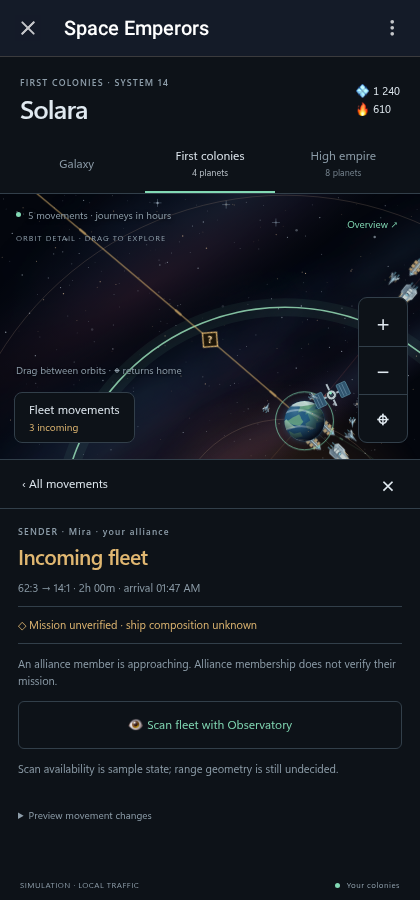
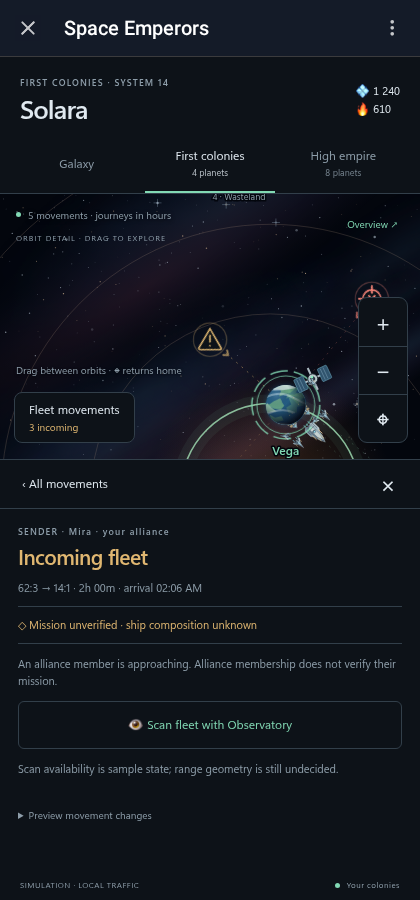
Show incoming fleets as compact tactical alerts

diff --git a/examples/galaxy/app/app.js b/examples/galaxy/app/app.js
@@ -603,30 +603,22 @@ function addFleet(from, to, index, cargo, duration, incoming) {
 		);
 	const state = movementState.get(key);
 	const route = element("g", { class: "fleet-route", "data-route": id }, $("#routes"));
+	// Geometry is private to this movement. Only its remaining journey is drawn on the map.
 	const path = element(
 		"path",
 		{
 			d: `M${from.x},${from.y} Q${(from.x + to.x) / 2 + (index % 2 ? 35 : -35)},${(from.y + to.y) / 2 - 38} ${to.x},${to.y}`,
-			class: "trajectory",
+			"data-scene-def": "",
 		},
-		route,
+		svg.querySelector("defs"),
 	);
-	const flow = element(
-		"path",
-		{
-			d: path.getAttribute("d"),
-			class: "route-flow",
-			pathLength: 100,
-			style: `animation-delay: -${index % 8}s`,
-		},
-		route,
-	);
+	const trajectory = element("path", { class: "trajectory" }, route);
 	const ship = element(
 		"g",
 		{ "data-fleet": id, role: "button", tabindex: 0, class: "fleet-marker" },
 		$("#ships"),
 	);
-	const fleet = { path, flow, route, ship, state, from, to, length: path.getTotalLength() };
+	const fleet = { path, trajectory, route, ship, state, from, to, length: path.getTotalLength() };
 	fleets.push(fleet);
 	paintFleet(fleet);
 	bindSelect(ship, () => openMovement(fleet));
@@ -709,8 +701,8 @@ function paintFleet(fleet) {
 	ship.dataset.leg = state.legId;
 	ship.dataset.duration = state.arrival - state.departure;
 	const composition = state.own ? state.composition : intelligence(state)?.composition;
-	const formation = element("g", { class: "formation" }, ship);
-	if (composition) {
+	if (state.own) {
+		const formation = element("g", { class: "formation" }, ship);
 		for (const [type, count] of Object.entries(composition)) {
 			if (!count) continue;
 			const shape = shipTypes[type];
@@ -741,8 +733,25 @@ function paintFleet(fleet) {
 				);
 		}
 	} else {
-		element("path", { d: "M0,-12 12,0 0,12 -12,0Z", class: "unknown-contact" }, formation);
-		element("text", { x: 0, y: 4, "text-anchor": "middle", class: "contact-question" }, formation, "?");
+		// Incoming contacts stay compact. Ship types and counts belong in the scanned detail view.
+		const tone = fleetTone(state);
+		const contact = element("g", { class: `contact-marker ${tone}`, "data-contact": tone }, ship);
+		element("circle", { r: 14, class: "contact-pulse" }, contact);
+		if (tone === "attack") {
+			element("circle", { r: 9, class: "contact-body" }, contact);
+			element(
+				"path",
+				{ d: "M-13,0H-6 M6,0H13 M0,-13V-6 M0,6V13 M-3,-3 3,3 M3,-3 -3,3", class: "contact-glyph" },
+				contact,
+			);
+		} else if (tone === "verified") {
+			element("path", { d: "M0,-11 9,-7V1Q8,7 0,11Q-8,7 -9,1V-7Z", class: "contact-body" }, contact);
+			element("path", { d: "M-4,0H4 M0,-4V4", class: "contact-glyph" }, contact);
+		} else {
+			element("path", { d: "M0,-11 11,8Q12,10 9,10H-9Q-12,10 -11,8Z", class: "contact-body" }, contact);
+			element("path", { d: "M0,-4V2 M0,6V6.1", class: "contact-glyph" }, contact);
+		}
+		element("path", { d: "M20,-3 24,0 20,3", class: `contact-heading ${tone}` }, ship);
 	}
 	element("circle", { r: 27, fill: "transparent", class: "fleet-hitbox" }, ship);
 	element(
@@ -1007,10 +1016,19 @@ function tick() {
 			`translate(${point.x} ${point.y}) rotate(${angle}) scale(${1 / camera.scale})`,
 		);
 		fleet.ship.dataset.progress = progress.toFixed(8);
-		fleet.ship.querySelector(".contact-question")?.setAttribute("transform", `rotate(${-angle})`);
+		fleet.ship.querySelector(".contact-marker")?.setAttribute("transform", `rotate(${-angle})`);
 		fleet.ship
 			.querySelector(".formation")
-			.setAttribute("transform", `scale(${Math.min(1, 0.48 + camera.scale * 0.35)})`);
+			?.setAttribute("transform", `scale(${Math.min(1, 0.48 + camera.scale * 0.35)})`);
+		if (Math.floor(now / 1000) !== lastSecond) {
+			const remaining = Array.from({ length: 17 }, (_, index) => {
+				const position = fleet.path.getPointAtLength(
+					fleet.length * (progress + ((1 - progress) * index) / 16),
+				);
+				return `${index ? "L" : "M"}${position.x},${position.y}`;
+			}).join(" ");
+			fleet.trajectory.setAttribute("d", remaining);
+		}
 	}
 	for (const patrol of patrols) {
 		const a = patrol.phase + (reducedMotion.matches ? 0 : (now / (patrol.duration * 1000)) * Math.PI * 2);

diff --git a/test/mini-app.smoke.ts b/test/mini-app.smoke.ts
@@ -177,6 +177,22 @@ try {
 			assert.equal(await app.locator("#planet-name").textContent(), "Kepler");
 			assert.match((await app.locator("#planet-meta").textContent()) ?? "", /YOUR COLONY/);
 			assert.equal(await app.locator("[data-fleet]").count(), 5);
+			assert.equal(
+				await app.locator(".route-flow").count(),
+				0,
+				"trajectories must not resemble animated lanes",
+			);
+			assert.ok(
+				await app
+					.locator("#routes .trajectory")
+					.evaluateAll((nodes) =>
+						nodes.every(
+							(node) =>
+								getComputedStyle(node).animationName === "none" &&
+								getComputedStyle(node).strokeDasharray !== "none",
+						),
+					),
+			);
 			const ship = app.locator("[data-fleet='transport']");
 			const progress = Number(await ship.getAttribute("data-progress"));
 			assert.ok(Number(await ship.getAttribute("data-duration")) >= 8 * 3600000);
@@ -191,6 +207,29 @@ try {
 			assert.equal(await app.locator(".fleet-title h2").textContent(), "Incoming fleet");
 			assert.equal(await app.locator(".composition").count(), 0);
 			assert.equal(await app.locator("[data-fleet='incoming-ally'] [data-ship-type]").count(), 0);
+			const contact = app.locator("[data-fleet='incoming-ally']");
+			assert.equal(await contact.locator("[data-contact='unknown']").count(), 1);
+			assert.equal(await contact.locator("text").count(), 0, "contact markers must not carry large labels");
+			await app.getByRole("button", { name: "Close fleet movements" }).click();
+			// Opening a contact from the map uses a large invisible target around its compact glyph.
+			const contactBox = await contact.locator(".fleet-hitbox").boundingBox();
+			assert.ok(contactBox && contactBox.width >= 53 && contactBox.height >= 53);
+			if (touch)
+				await page.touchscreen.tap(contactBox.x + contactBox.width / 2, contactBox.y + contactBox.height / 2);
+			else await page.mouse.click(contactBox.x + contactBox.width / 2, contactBox.y + contactBox.height / 2);
+			await app.getByRole("heading", { name: "Incoming fleet", exact: true }).waitFor();
+			assert.ok(
+				await contact.evaluate((node) => {
+					const marker = node as unknown as SVGGraphicsElement;
+					const trajectory = document.querySelector(
+						"[data-route='incoming-ally'] .trajectory",
+					) as SVGPathElement;
+					const position = marker.transform.baseVal.consolidate()?.matrix;
+					const start = trajectory.getPointAtLength(0);
+					return position && Math.hypot(position.e - start.x, position.f - start.y) < 1;
+				}),
+				"trajectory starts at the current contact, not its origin system",
+			);
 			await page.screenshot({ path: `wireframes/interaction/${touch ? "touch" : "desktop"}-incoming.png` });
 			await app.locator("#scan-fleet").click();
 			await app.getByRole("heading", { name: "Reinforcements incoming", exact: true }).waitFor();
@@ -199,6 +238,12 @@ try {
 				/Mission verified at.*this leg only/,
 			);
 			assert.equal(await app.locator(".composition > div").count(), 3);
+			assert.equal(await contact.locator("[data-contact='verified']").count(), 1);
+			assert.equal(
+				await contact.locator("[data-ship-type]").count(),
+				0,
+				"scanned details stay in the detail view",
+			);
 			await app.locator("#verification img[alt='👁']").waitFor();
 			await frame.waitForFunction(() =>
 				[...document.querySelectorAll<HTMLImageElement>("img.telegram-emoji")].every(
@@ -213,6 +258,7 @@ try {
 			await app.locator("#movement-back").click();
 			await app.locator("[data-movement='incoming-attack']").click();
 			assert.equal(await app.locator(".fleet-title h2").textContent(), "Attack incoming");
+			assert.equal(await app.locator("[data-fleet='incoming-attack'] [data-contact='attack']").count(), 1);
 			await app.locator(".demo-controls summary").click();
 			await app.getByRole("button", { name: "Arrival", exact: true }).click();
 			assert.match((await app.locator("#verification").textContent()) ?? "", /expired.*arrived/);
@@ -277,7 +323,7 @@ try {
 			);
 			assert.equal(
 				await app
-					.locator(".route-flow")
+					.locator(".contact-pulse")
 					.first()
 					.evaluate((node) => getComputedStyle(node).animationName),
 				"none",

diff --git a/examples/galaxy/app/style.css b/examples/galaxy/app/style.css
@@ -386,8 +386,10 @@ h2 {
 .trajectory {
 	fill: none;
 	stroke: currentColor;
-	stroke-width: 0.8;
-	opacity: 0.18;
+	stroke-width: 1;
+	stroke-dasharray: 1 6;
+	stroke-linecap: round;
+	opacity: 0.22;
 	vector-effect: non-scaling-stroke;
 }
 .fleet-route {
@@ -409,47 +411,49 @@ h2 {
 .fleet-route.ended {
 	display: none;
 }
-.route-flow {
-	fill: none;
-	stroke: currentColor;
-	stroke-width: 1.5;
-	stroke-linecap: round;
-	stroke-dasharray: 1 19;
-	vector-effect: non-scaling-stroke;
-	animation: route-flow 12s linear infinite;
-}
-@keyframes route-flow {
-	0% {
-		stroke-dashoffset: 0;
-		opacity: 0.15;
-	}
-	50% {
-		opacity: 0.65;
-	}
-	100% {
-		stroke-dashoffset: -20;
-		opacity: 0.15;
-	}
-}
 .fleet-route.focused .trajectory {
-	opacity: 0.6;
-	stroke-width: 1.4;
-}
-.fleet-route.focused .route-flow {
-	stroke-width: 2.5;
+	opacity: 0.5;
 }
 .fleet-marker {
 	cursor: pointer;
 }
-.unknown-contact {
-	fill: oklch(20% 0.025 80);
-	stroke: oklch(80% 0.1 80);
+.contact-body {
+	fill: var(--surface);
+	stroke: currentColor;
 	stroke-width: 1.5;
 }
-.contact-question {
-	fill: oklch(88% 0.08 80);
-	font-size: 12px;
-	font-weight: 650;
+.contact-glyph,
+.contact-heading {
+	fill: none;
+	stroke: currentColor;
+	stroke-width: 1.7;
+	stroke-linecap: round;
+	stroke-linejoin: round;
+}
+.contact-heading {
+	opacity: 0.7;
+}
+.contact-pulse {
+	fill: none;
+	stroke: currentColor;
+	stroke-width: 1;
+	opacity: 0;
+	animation: contact-pulse 5.5s ease-out infinite;
+}
+@keyframes contact-pulse {
+	0%,
+	65%,
+	100% {
+		transform: scale(1);
+		opacity: 0;
+	}
+	10% {
+		opacity: 0.3;
+	}
+	40% {
+		transform: scale(1.65);
+		opacity: 0;
+	}
 }
 #open-movements {
 	position: absolute;
@@ -703,7 +707,7 @@ footer {
 }
 @media (prefers-reduced-motion: reduce) {
 	.surface-stripes,
-	.route-flow {
+	.contact-pulse {
 		animation: none;
 	}
 	.orbit,

diff --git a/README.md b/README.md
@@ -95,7 +95,7 @@ System orbits are spaced for panning on a phone. Planet targets stay 64 pixels w
 
 Galaxy stars use O–B–A–F–G–K–M spectral classes and separate V/III/I luminosity classes. The catalogue also includes binary and triple systems, DA/DB white dwarfs, neutron stars and pulsars, and stellar-mass black holes with companions. These follow [stellar evolution categories](https://science.nasa.gov/universe/stars/types/) and [black-hole mass classes](https://science.nasa.gov/universe/black-holes/types/). Tap a whole hex to inspect its classification, or open **Star classes** for the key. Ordinary systems reveal their names on selection, keeping settlements prominent. Colours are enhanced and symbols enlarged: true stellar diameters disappear at interstellar map scales. Distribution, planet counts and positions are illustrative.
 
-Fleet positions follow departure and arrival timestamps over journeys lasting minutes or hours. Fading dots indicate direction independently of ship speed. Heavy warships, small freighters and Light Fighters travel in formation, with provisional silhouettes and no settled ship statistics. Arrivals end movements rather than looping them.
+Fleet positions follow departure and arrival timestamps over journeys lasting minutes or hours. Faint, static dotted trajectories show each fleet's remaining journey. Compact incoming markers pulse gently: an amber warning for unverified contacts, a red target for verified attacks, and a blue shield for verified reinforcements. Tap a marker for details and scanning; the map carries no persistent fleet labels. Your heavy warships, small freighters and Light Fighters travel in formation, with provisional silhouettes and no settled ship statistics. Arrivals end movements rather than looping them.
 
 Open **Fleet movements** to inspect unknown incoming fleets, a verified attack and your own transports. Scan the allied incoming fleet to reveal reinforcements and its ship composition. The report identifies its movement leg and verification time. The preview controls demonstrate expiry on recall, arrival or replacement. Unknown fleets have no composition or mission in their initial fixture state, including allied fleets. The scan uses a separate static response under `app/intel/`; production authorization and visibility belong on the game server. Scan range and travel times are sample values.
 
